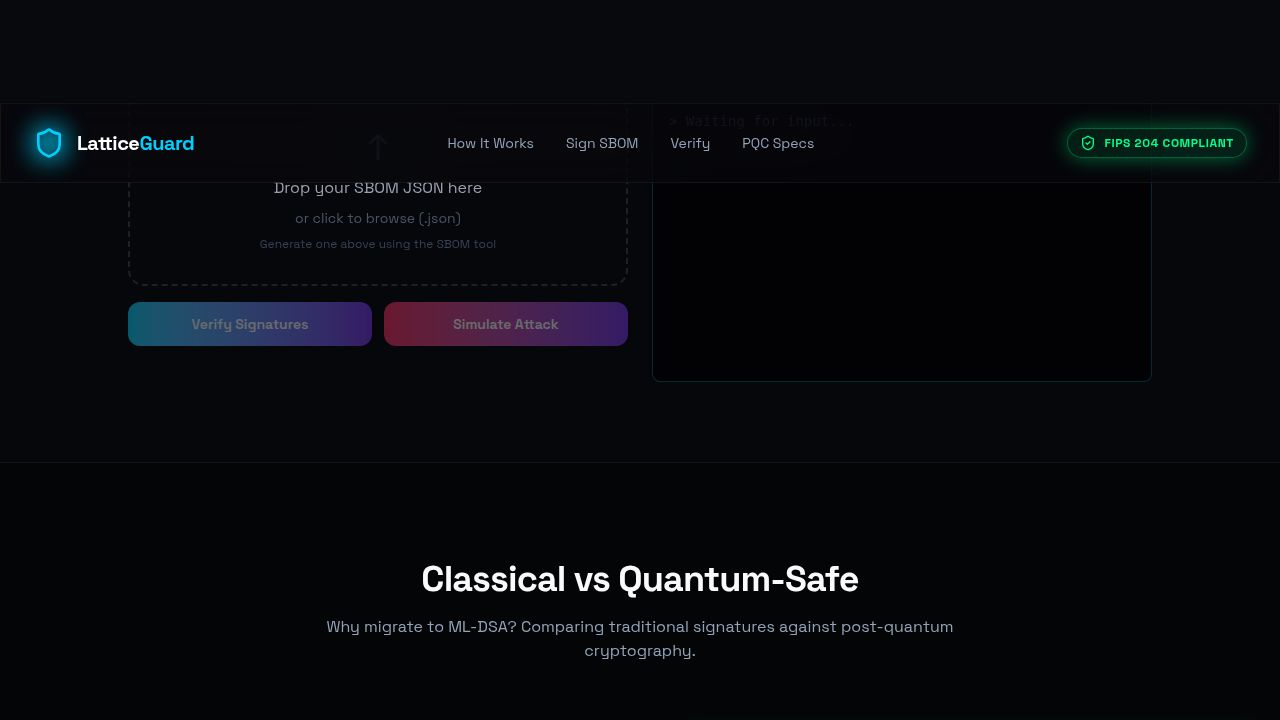
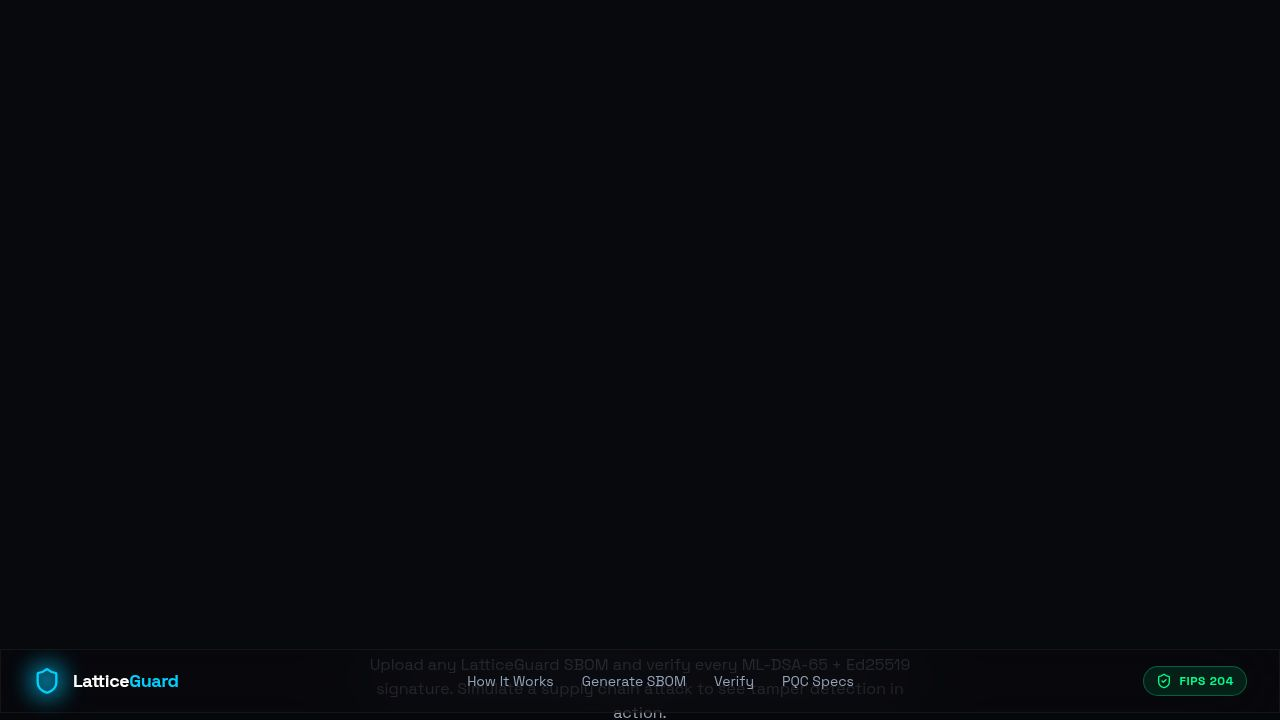
Update website navigation and hero section content
Adjusted Navbar height and links, updated Hero section with new text, and added a live backend indicator.

Replit-Commit-Author: Agent
Replit-Commit-Session-Id: 1f287a3a-107f-4c92-94cf-c86f95d46bfb
Replit-Commit-Checkpoint-Type: full_checkpoint
Replit-Commit-Event-Id: cd11db40-2beb-45fa-87cf-2144735532e6
Replit-Commit-Screenshot-Url: https://storage.googleapis.com/screenshot-production-us-central1/f1810fe2-0778-43e9-b2be-e256325a2a3f/1f287a3a-107f-4c92-94cf-c86f95d46bfb/APPzqA7
Replit-Helium-Checkpoint-Created: true

diff --git a/artifacts/latticeguard-sbom/src/components/sections/Hero.tsx b/artifacts/latticeguard-sbom/src/components/sections/Hero.tsx
@@ -4,11 +4,10 @@ import { Lock, FileSearch, ShieldCheck, Cpu, Database } from "lucide-react";
 export default function Hero() {
   return (
     <section className="relative pt-32 pb-20 md:pt-48 md:pb-32 overflow-hidden flex items-center min-h-[90vh]">
-      {/* Background Elements */}
       <div className="absolute inset-0 bg-grid-pattern opacity-20" />
       <div className="absolute top-1/4 left-1/4 w-96 h-96 bg-primary/20 rounded-full blur-[120px] -z-10 mix-blend-screen" />
       <div className="absolute bottom-1/4 right-1/4 w-96 h-96 bg-secondary/20 rounded-full blur-[120px] -z-10 mix-blend-screen" />
-      
+
       <div className="max-w-7xl mx-auto px-4 sm:px-6 lg:px-8 relative z-10">
         <div className="text-center max-w-4xl mx-auto">
           <motion.div
@@ -16,39 +15,43 @@ export default function Hero() {
             animate={{ opacity: 1, y: 0 }}
             transition={{ duration: 0.6 }}
           >
+            <div className="inline-flex items-center gap-2 px-4 py-1.5 rounded-full border border-[#00d4ff]/30 bg-[#00d4ff]/5 text-[#00d4ff] text-sm font-mono mb-6">
+              <span className="w-2 h-2 rounded-full bg-[#00ff88] animate-pulse" />
+              Live backend · Real PyPI/npm · Real CVEs
+            </div>
             <h1 className="text-5xl md:text-7xl font-bold tracking-tighter mb-6 leading-tight">
               Quantum-Safe <br />
               Software Supply Chain <br />
               <span className="text-gradient">Security Engine</span>
             </h1>
           </motion.div>
-          
-          <motion.p 
+
+          <motion.p
             initial={{ opacity: 0 }}
             animate={{ opacity: 1 }}
             transition={{ duration: 0.6, delay: 0.2 }}
             className="text-xl text-muted-foreground mb-10 max-w-2xl mx-auto leading-relaxed"
           >
-            Sign every dependency with <strong className="text-white">ML-DSA-65</strong>. 
+            Sign every dependency with <strong className="text-white">ML-DSA-65</strong>.
             Cryptographically unbreakable by both classical and quantum computers.
             Zero-trust pipeline integrity out of the box.
           </motion.p>
-          
-          <motion.div 
+
+          <motion.div
             initial={{ opacity: 0, y: 20 }}
             animate={{ opacity: 1, y: 0 }}
             transition={{ duration: 0.6, delay: 0.4 }}
             className="flex flex-col sm:flex-row justify-center items-center space-y-4 sm:space-y-0 sm:space-x-6"
           >
-            <a 
-              href="#sign"
+            <a
+              href="#tool"
               className="w-full sm:w-auto px-8 py-4 rounded-xl font-bold text-primary-foreground bg-gradient-to-r from-primary to-primary/80 glow-primary hover:scale-105 transition-transform flex items-center justify-center space-x-2"
             >
               <Lock className="w-5 h-5" />
-              <span>Start Signing</span>
+              <span>Generate SBOM →</span>
             </a>
-            
-            <a 
+
+            <a
               href="#verify"
               className="w-full sm:w-auto px-8 py-4 rounded-xl font-bold text-white glass-card hover:bg-white/10 transition-all flex items-center justify-center space-x-2"
             >
@@ -57,15 +60,35 @@ export default function Hero() {
             </a>
           </motion.div>
 
-          <motion.div 
+          <motion.div
             initial={{ opacity: 0 }}
             animate={{ opacity: 1 }}
             transition={{ duration: 0.6, delay: 0.6 }}
             className="mt-16 flex flex-wrap justify-center gap-4 sm:gap-8"
           >
-            <Badge icon={<ShieldCheck />} text="NIST Approved" />
-            <Badge icon={<Cpu />} text="ML-DSA-65 (Dilithium)" />
-            <Badge icon={<Database />} text="CycloneDX Core" />
+            <Badge icon={<ShieldCheck />} text="NIST FIPS 204" />
+            <Badge icon={<Cpu />} text="ML-DSA-65 · 3293-byte sigs" />
+            <Badge icon={<Database />} text="CycloneDX 1.5" />
+          </motion.div>
+
+          {/* Quick workflow hint */}
+          <motion.div
+            initial={{ opacity: 0 }}
+            animate={{ opacity: 1 }}
+            transition={{ duration: 0.6, delay: 0.8 }}
+            className="mt-12 flex justify-center items-center gap-3 text-sm text-gray-600"
+          >
+            <span className="flex items-center gap-1.5 px-3 py-1.5 rounded-lg bg-white/[0.03] border border-white/5">
+              <span className="text-[#00d4ff]">1</span> Paste requirements.txt
+            </span>
+            <span className="text-gray-700">→</span>
+            <span className="flex items-center gap-1.5 px-3 py-1.5 rounded-lg bg-white/[0.03] border border-white/5">
+              <span className="text-[#7c3aed]">2</span> Generate ML-DSA-65 keys
+            </span>
+            <span className="text-gray-700">→</span>
+            <span className="flex items-center gap-1.5 px-3 py-1.5 rounded-lg bg-white/[0.03] border border-white/5">
+              <span className="text-[#00ff88]">3</span> Download signed SBOM
+            </span>
           </motion.div>
         </div>
       </div>
@@ -73,7 +96,7 @@ export default function Hero() {
   );
 }
 
-function Badge({ icon, text }: { icon: React.ReactNode, text: string }) {
+function Badge({ icon, text }: { icon: React.ReactNode; text: string }) {
   return (
     <div className="flex items-center space-x-2 px-4 py-2 rounded-full glass-card border-white/5">
       <div className="text-secondary w-4 h-4">{icon}</div>

diff --git a/artifacts/latticeguard-sbom/src/components/layout/Navbar.tsx b/artifacts/latticeguard-sbom/src/components/layout/Navbar.tsx
@@ -3,37 +3,48 @@ import { motion } from "framer-motion";
 
 export default function Navbar() {
   return (
-    <nav className="fixed top-0 left-0 right-0 z-50 glass-panel border-b border-white/5 h-20 flex items-center">
+    <nav className="fixed top-0 left-0 right-0 z-50 glass-panel border-b border-white/5 h-16 flex items-center">
       <div className="max-w-7xl mx-auto px-4 sm:px-6 lg:px-8 w-full flex justify-between items-center">
-        
-        <div className="flex items-center space-x-3">
+
+        <a href="#" className="flex items-center space-x-3 hover:opacity-80 transition-opacity">
           <div className="relative">
-            <Shield className="w-8 h-8 text-primary" />
-            <motion.div 
+            <Shield className="w-7 h-7 text-primary" />
+            <motion.div
               animate={{ opacity: [0.2, 0.8, 0.2] }}
               transition={{ duration: 2, repeat: Infinity }}
               className="absolute inset-0 bg-primary blur-md -z-10"
             />
           </div>
-          <span className="text-xl font-bold tracking-tight text-white">
+          <span className="text-lg font-bold tracking-tight text-white">
             Lattice<span className="text-primary">Guard</span>
           </span>
+        </a>
+
+        <div className="hidden md:flex items-center gap-1">
+          <NavLink href="#how-it-works">How It Works</NavLink>
+          <NavLink href="#tool">Generate SBOM</NavLink>
+          <NavLink href="#verify">Verify</NavLink>
+          <NavLink href="#comparison">PQC Specs</NavLink>
         </div>
 
-        <div className="hidden md:flex items-center space-x-8">
-          <a href="#how-it-works" className="text-sm text-muted-foreground hover:text-white transition-colors">How It Works</a>
-          <a href="#sign" className="text-sm text-muted-foreground hover:text-white transition-colors">Sign SBOM</a>
-          <a href="#verify" className="text-sm text-muted-foreground hover:text-white transition-colors">Verify</a>
-          <a href="#comparison" className="text-sm text-muted-foreground hover:text-white transition-colors">PQC Specs</a>
-        </div>
-
-        <div className="flex items-center">
-          <div className="px-3 py-1.5 rounded-full bg-success/10 border border-success/30 flex items-center space-x-2 glow-success">
+        <div className="flex items-center gap-3">
+          <div className="px-3 py-1.5 rounded-full bg-success/10 border border-success/30 flex items-center space-x-2">
             <ShieldCheck className="w-4 h-4 text-success" />
-            <span className="text-xs font-bold text-success uppercase tracking-wider">FIPS 204 Compliant</span>
+            <span className="text-xs font-bold text-success uppercase tracking-wider">FIPS 204</span>
           </div>
         </div>
       </div>
     </nav>
+  );
+}
+
+function NavLink({ href, children }: { href: string; children: React.ReactNode }) {
+  return (
+    <a
+      href={href}
+      className="px-3 py-2 rounded-lg text-sm text-muted-foreground hover:text-white hover:bg-white/5 transition-all"
+    >
+      {children}
+    </a>
   );
 }
